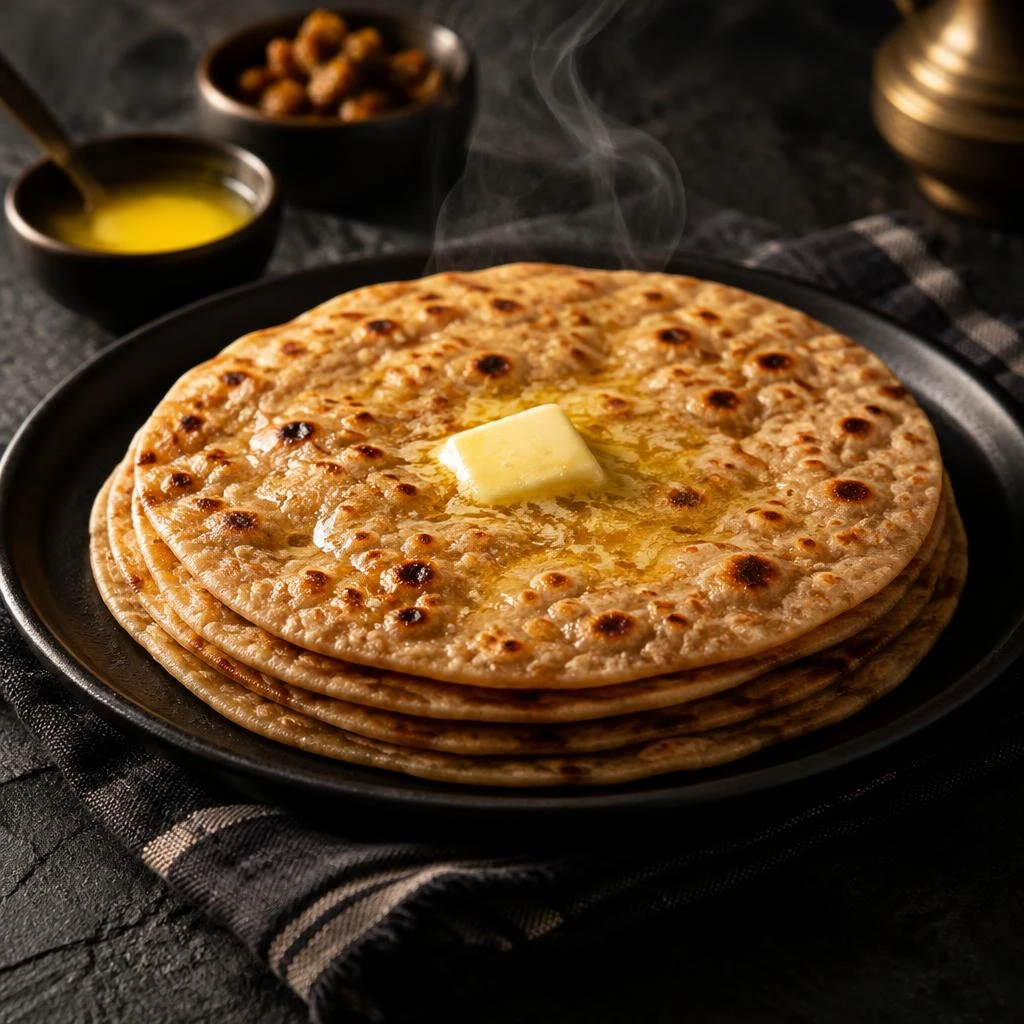
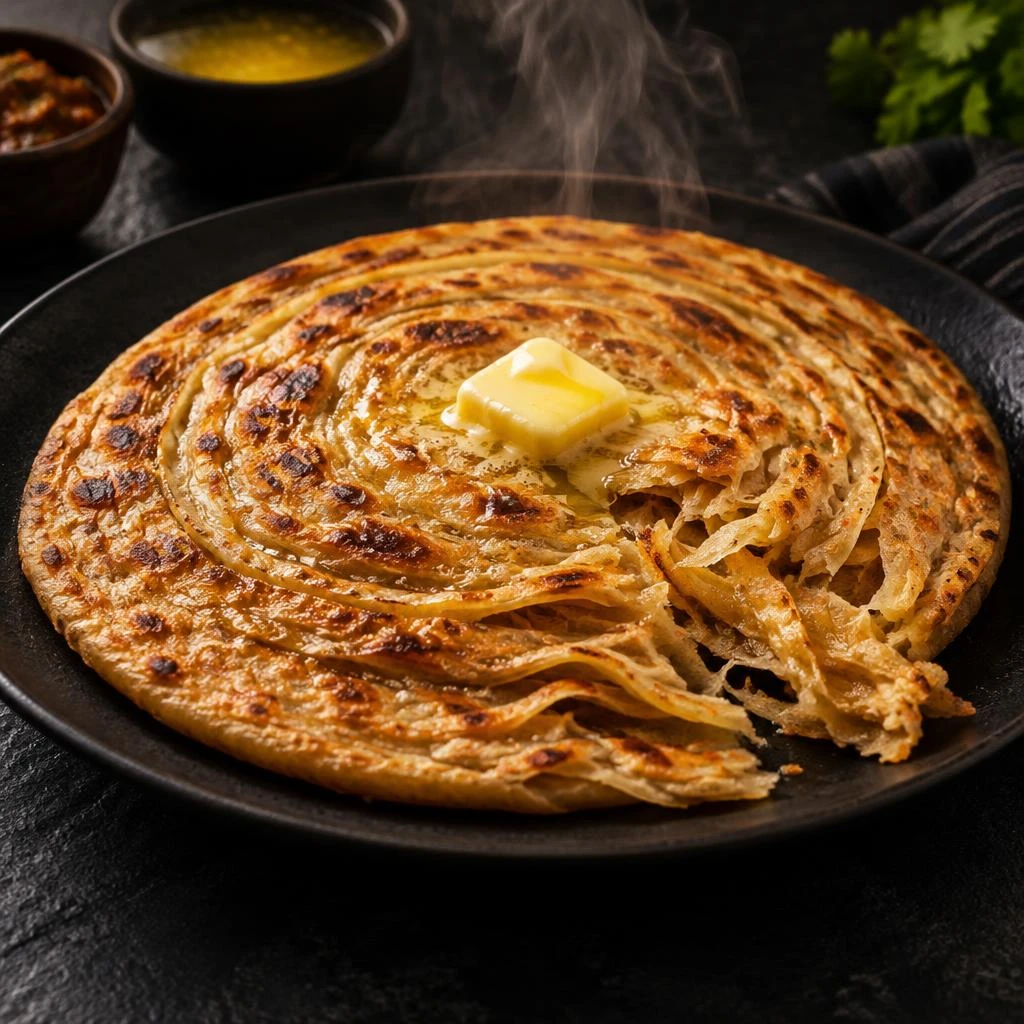
Add bread photos (223 dishes with photos)
- Butter Tandoori Roti, Plain/Butter Parotha, Plain/Butter Naan,
  Butter Garlic Naan, Garlic Cheese Naan, Cheese Naan,
  Plain/Butter Kulcha
- The earlier round bread-with-butter photo moves from Butter Parotha
  to Butter Chapati; Butter Parotha now uses the layered parotha photo
- supabase/add-menu-photos.sql links all 223 photos

diff --git a/lib/menu.ts b/lib/menu.ts
@@ -374,18 +374,18 @@ export const menuCategories: MenuCategory[] = [
     icon: "bread",
     items: [
       { name: "Plain Chapati", price: 24, image: "/images/menu/plain-chapati.webp" },
-      { name: "Butter Chapati", price: 26 },
+      { name: "Butter Chapati", price: 26, image: "/images/menu/butter-chapati.webp" },
       { name: "Plain Tandoori Roti", price: 36, image: "/images/menu/plain-tandoori-roti.webp" },
-      { name: "Butter Tandoori Roti", price: 42 },
-      { name: "Plain Parotha", price: 84 },
+      { name: "Butter Tandoori Roti", price: 42, image: "/images/menu/butter-tandoori-roti.webp" },
+      { name: "Plain Parotha", price: 84, image: "/images/menu/plain-parotha.webp" },
       { name: "Butter Parotha", price: 90, image: "/images/menu/butter-parotha.webp" },
-      { name: "Plain Naan", price: 72 },
-      { name: "Butter Naan", price: 78 },
-      { name: "Butter Garlic Naan", price: 102 },
-      { name: "Garlic Cheese Naan", price: 162 },
-      { name: "Cheese Naan", price: 162 },
-      { name: "Plain Kulcha", price: 84 },
-      { name: "Butter Kulcha", price: 90 },
+      { name: "Plain Naan", price: 72, image: "/images/menu/plain-naan.webp" },
+      { name: "Butter Naan", price: 78, image: "/images/menu/butter-naan.webp" },
+      { name: "Butter Garlic Naan", price: 102, image: "/images/menu/butter-garlic-naan.webp" },
+      { name: "Garlic Cheese Naan", price: 162, image: "/images/menu/garlic-cheese-naan.webp" },
+      { name: "Cheese Naan", price: 162, image: "/images/menu/cheese-naan.webp" },
+      { name: "Plain Kulcha", price: 84, image: "/images/menu/plain-kulcha.webp" },
+      { name: "Butter Kulcha", price: 90, image: "/images/menu/butter-kulcha.webp" },
       { name: "Roti Ki Tokri (Assorted Rotis)", price: 419 },
     ],
   },
